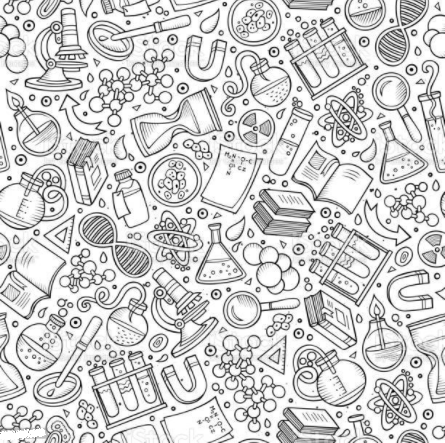
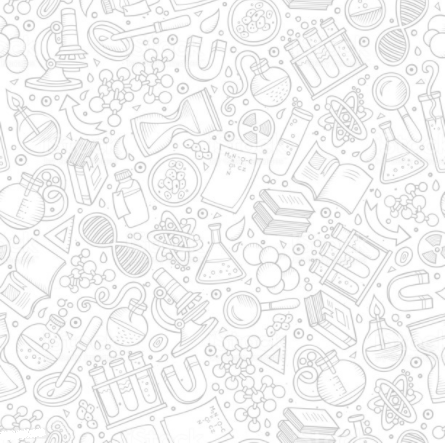
Fix body-bg

diff --git a/take-4/index.html b/take-4/index.html
@@ -42,7 +42,7 @@
 <body>
 
   <!-- ======= Header ======= -->
-  <header id="header" class="fixed-top bg-white">
+  <header id="header" class="fixed-top ">
     <div class="container d-flex align-items-center justify-content-lg-between">
 
       <!-- <h1 class="logo me-auto me-lg-0"><a href="index.html">Q &amp; Ace<span>.</span></a></h1> -->
@@ -100,8 +100,8 @@
     <div class="container" data-aos="fade-up">
 
       <div class="section-title">
-        <!-- <h2 class="bg-white py-3">Why Q &amp; Ace</h2> -->
-        <p class="bg-white">Why Q &amp; Ace?</p>
+        <!-- <h2 class=" py-3">Why Q &amp; Ace</h2> -->
+        <p>Why Q &amp; Ace?</p>
       </div>
 
       <div class="row">
@@ -152,7 +152,7 @@
           <div class="col-lg-6 order-1 order-lg-2" data-aos="fade-left" data-aos-delay="100">
             <img src="assets/img/about.jpg" class="img-fluid" alt="">
           </div>
-          <div class="col-lg-6 pt-4 pt-lg-0 order-2 order-lg-1 content bg-white" data-aos="fade-right"
+          <div class="col-lg-6 pt-4 pt-lg-0 order-2 order-lg-1 content" data-aos="fade-right"
             data-aos-delay="100">
             <h3 class="text--primary">Work Smarter, Not Harder.</h3>
             <p class="fst-italic">
@@ -263,12 +263,12 @@
     <!-- <section id="pricing" class="services">
       <div class="container" data-aos="fade-up">
 
-        <div class="section-title bg-white p-3">
+        <div class="section-title  p-3">
           <h2>Pricing</h2>
           <p>Customized Plans for everyone’s needs</p>
         </div>
 
-        <p class="my-3 bg-white p-3">Every child deserves to have affordable and accessible education. Find the
+        <p class="my-3  p-3">Every child deserves to have affordable and accessible education. Find the
           best fit for you from our range of customisable plans and products.</p>
 
         <div class="row">
@@ -302,13 +302,13 @@
       <div class="container" data-aos="fade-up">
 
         <div class="section-title">
-          <p class="bg-white px-2">Pricing</p>
+          <p class=" px-2">Pricing</p>
         </div>
 
         <div class="row gy-4" data-aos="fade-left">
 
 
-          <div class="col-lg-4 col-md-6 bg-white" data-aos="zoom-in" data-aos-delay="200">
+          <div class="col-lg-4 col-md-6 " data-aos="zoom-in" data-aos-delay="200">
             <div class="box">
               <h3>Single Subject</h3>
               <div class="price"><sup>$</sup>40<span> / mo</span></div>
@@ -321,7 +321,7 @@
             </div>
           </div>
 
-          <div class="col-lg-4 col-md-6 bg-white" data-aos="zoom-in" data-aos-delay="300">
+          <div class="col-lg-4 col-md-6 " data-aos="zoom-in" data-aos-delay="300">
             <div class="box">
               <h3>Standard package</h3>
               <div class="price"><sup>$</sup>60<span> / mo</span></div>
@@ -334,7 +334,7 @@
             </div>
           </div>
 
-          <div class="col-lg-4 col-md-6 bg-white" data-aos="zoom-in" data-aos-delay="400">
+          <div class="col-lg-4 col-md-6 " data-aos="zoom-in" data-aos-delay="400">
             <div class="box">
               <h3>Ace package</h3>
               <div class="price"><sup>$</sup>75<span> / mo</span></div>
@@ -359,7 +359,7 @@
     <section class="py-0">
       <div class="container d-flex justify-content-center" data-aos="zoom-in">
 
-        <div class="text-center bg-white p-1" style="width: fit-content;">
+        <div class="text-center  p-1" style="width: fit-content;">
           <a class="get-started-btn" href="#">Click for free trial</a>
         </div>
 
@@ -368,7 +368,7 @@
 
     <!-- ======= Contact Section ======= -->
     <section id="contact" class="contact">
-      <div class="container bg-white py-3" data-aos="fade-up">
+      <div class="container  py-3" data-aos="fade-up">
 
         <div class="section-title">
           <h2>Contact Us</h2>
@@ -381,7 +381,7 @@
         <div class="row mt-5">
 
           <div class="col-lg-4">
-            <div class="info">
+            <div class="info p-1">
               <div class="address">
                 <i class="bi bi-geo-alt"></i>
                 <h4>Location:</h4>

diff --git a/take-4/assets/css/custom.css b/take-4/assets/css/custom.css
@@ -1,4 +1,5 @@
 body {
   background-image: url(../img/body-bg.png);
   background-repeat: repeat;
+  background-size: 20%;
 }
